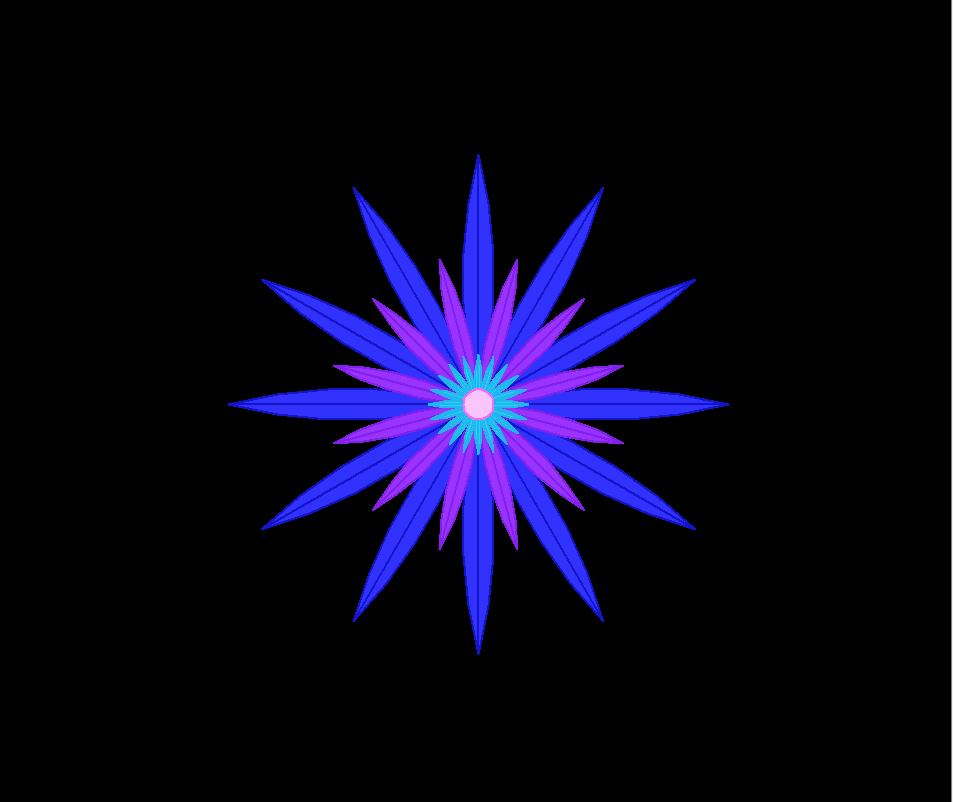
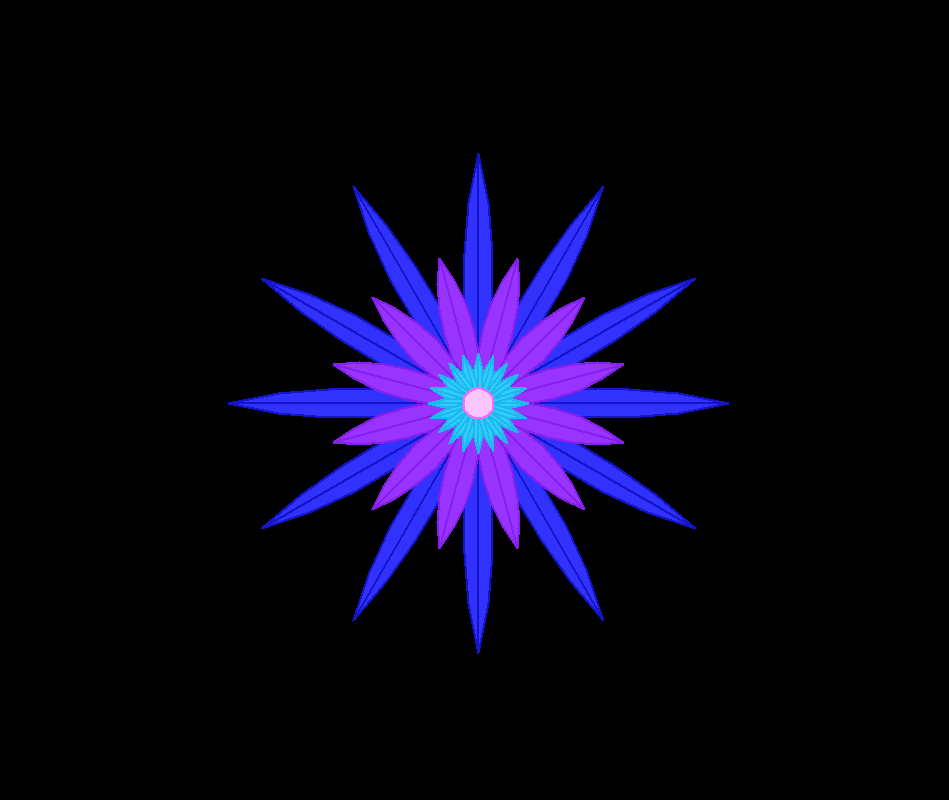
saving calculations of circle radius & arc angle

Changed region(s): [[0.275, 0.1875, 0.7334, 0.8125], [0.275, 0.3438, 0.3056, 0.375]]

diff --git a/main.py b/main.py
@@ -24,7 +24,6 @@ class FlowerApp(tk.Tk):
         self.mainloop()
 
     def set_turtle_settings(self) -> None:
-        # self.turtle_screen.setworldcoordinates(1, 1, 0, 0)
         self.turtle.speed(0)
         self.turtle.hideturtle()
         self.turtle_screen.colormode(255)
@@ -54,16 +53,20 @@ class Menu(ttk.Frame):
         self.place(x=800, y=0, relwidth=1 / 3, relheight=1)
 
 
-def flower_petal(tu: t.RawTurtle, length: int, color: tuple[int, int, int] = (0, 0, 0),
+def flower_petal(tu: t.RawTurtle, length: int, height: int, color: tuple[int, int, int] = (0, 0, 0),
                  fill_color: tuple[int, int, int] = (255, 255, 255)) -> None:
     """
     Draw a flower petal wit a lanceolate shape
     :param tu: The turtle raw screen
     :param length: Length of the petal
+    :param height: Arrow of the arc
     :param color: Outline color of the flower petal
     :param fill_color: Fill color of the flower petal
     :return:
     """
+    # Calculate the radius and the angle of the angle of the arc
+    rayon: float = ((length / 2) ** 2 + height ** 2) / (2 * height)
+    angle: float = math.degrees(2 * math.asin((length / 2) / rayon))
     tu.pendown()
 
     # Set pen settings
@@ -75,18 +78,16 @@ def flower_petal(tu: t.RawTurtle, length: int, color: tuple[int, int, int] = (0,
 
     # Draw the left petal section
     tu.begin_fill()
-    rayon = 2 * length
-    angle = math.degrees(length / (2 * rayon))
-    tu.left(180 - angle)
-    tu.circle(rayon, 2 * angle)
+    tu.left(180 - angle / 2)
+    tu.circle(rayon, angle)
 
     # Draw the right petal section
-    tu.left(180 - angle * 2)
-    tu.circle(rayon, 2 * angle)
+    tu.left(180 - angle)
+    tu.circle(rayon, angle)
     tu.end_fill()
 
     # Draw the central vein of the petal
-    tu.left(180 - angle)
+    tu.left(180 - angle / 2)
     tu.forward(length)
 
     tu.penup()
@@ -128,19 +129,19 @@ def create_flower(tu: t.RawTurtle) -> None:
     for i in range(nb_petal1):
         tu.setheading(0)
         tu.left(i * (360 // nb_petal1))
-        flower_petal(tu, 250, (20, 20, 200), (50, 50, 255))
+        flower_petal(tu, 250, 15, (20, 20, 200), (50, 50, 255))
 
     for j in range(nb_petal1):
         tu.setheading(0)
         alpha = (360 // nb_petal1)
         tu.left(j * alpha + alpha / 2)
-        flower_petal(tu, 150, (133, 31, 235), (153, 51, 255))
+        flower_petal(tu, 150, 15, (133, 31, 235), (153, 51, 255))
 
     nb_petal2 = 20
     for h in range(nb_petal2):
         tu.setheading(0)
         tu.left(h * (360 // nb_petal2))
-        flower_petal(tu, 50, (31, 184, 235), (51, 204, 255))
+        flower_petal(tu, 50, 5, (31, 184, 235), (51, 204, 255))
 
     # Reset the position of the turtle
     tu.setheading(0)

diff --git a/nsi_flower.py b/nsi_flower.py
@@ -7,15 +7,20 @@ t.hideturtle()
 t.bgcolor("black")
 
 
-def flower_petal(length: int, color: tuple[int, int, int] = (0, 0, 0),
+def flower_petal(length: int, height: int, color: tuple[int, int, int] = (0, 0, 0),
                  fill_color: tuple[int, int, int] = (255, 255, 255)) -> None:
     """
     Draw a flower petal wit a lanceolate shape
+    :param tu: The turtle raw screen
     :param length: Length of the petal
+    :param height: Arrow of the arc
     :param color: Outline color of the flower petal
     :param fill_color: Fill color of the flower petal
     :return:
     """
+    # Calculate the radius and the angle of the angle of the arc
+    rayon: float = ((length / 2) ** 2 + height ** 2) / (2 * height)
+    angle: float = math.degrees(2 * math.asin((length / 2) / rayon))
     t.pendown()
 
     # Set pen settings
@@ -27,18 +32,16 @@ def flower_petal(length: int, color: tuple[int, int, int] = (0, 0, 0),
 
     # Draw the left petal section
     t.begin_fill()
-    rayon = 2 * length
-    angle = math.degrees(length / (2 * rayon))
-    t.left(180 - angle)
-    t.circle(rayon, 2 * angle)
+    t.left(180 - angle / 2)
+    t.circle(rayon, angle)
 
     # Draw the right petal section
-    t.left(180 - angle * 2)
-    t.circle(rayon, 2 * angle)
+    t.left(180 - angle)
+    t.circle(rayon, angle)
     t.end_fill()
 
     # Draw the central vein of the petal
-    t.left(180 - angle)
+    t.left(180 - angle / 2)
     t.forward(length)
 
     t.penup()
@@ -77,19 +80,19 @@ def create_flower() -> None:
     for i in range(nb_petal1):
         t.setheading(0)
         t.left(i * (360 // nb_petal1))
-        flower_petal(250, (20, 20, 200), (50, 50, 255))
+        flower_petal(250, 15, (20, 20, 200), (50, 50, 255))
 
     for j in range(nb_petal1):
         t.setheading(0)
         alpha = (360 // nb_petal1)
         t.left(j * alpha + alpha / 2)
-        flower_petal(150, (133, 31, 235), (153, 51, 255))
+        flower_petal(150, 15, (133, 31, 235), (153, 51, 255))
 
     nb_petal2 = 20
     for h in range(nb_petal2):
         t.setheading(0)
         t.left(h * (360 // nb_petal2))
-        flower_petal(50, (31, 184, 235), (51, 204, 255))
+        flower_petal(50, 5, (31, 184, 235), (51, 204, 255))
 
     # Reset the position of the turtle
     t.setheading(0)
